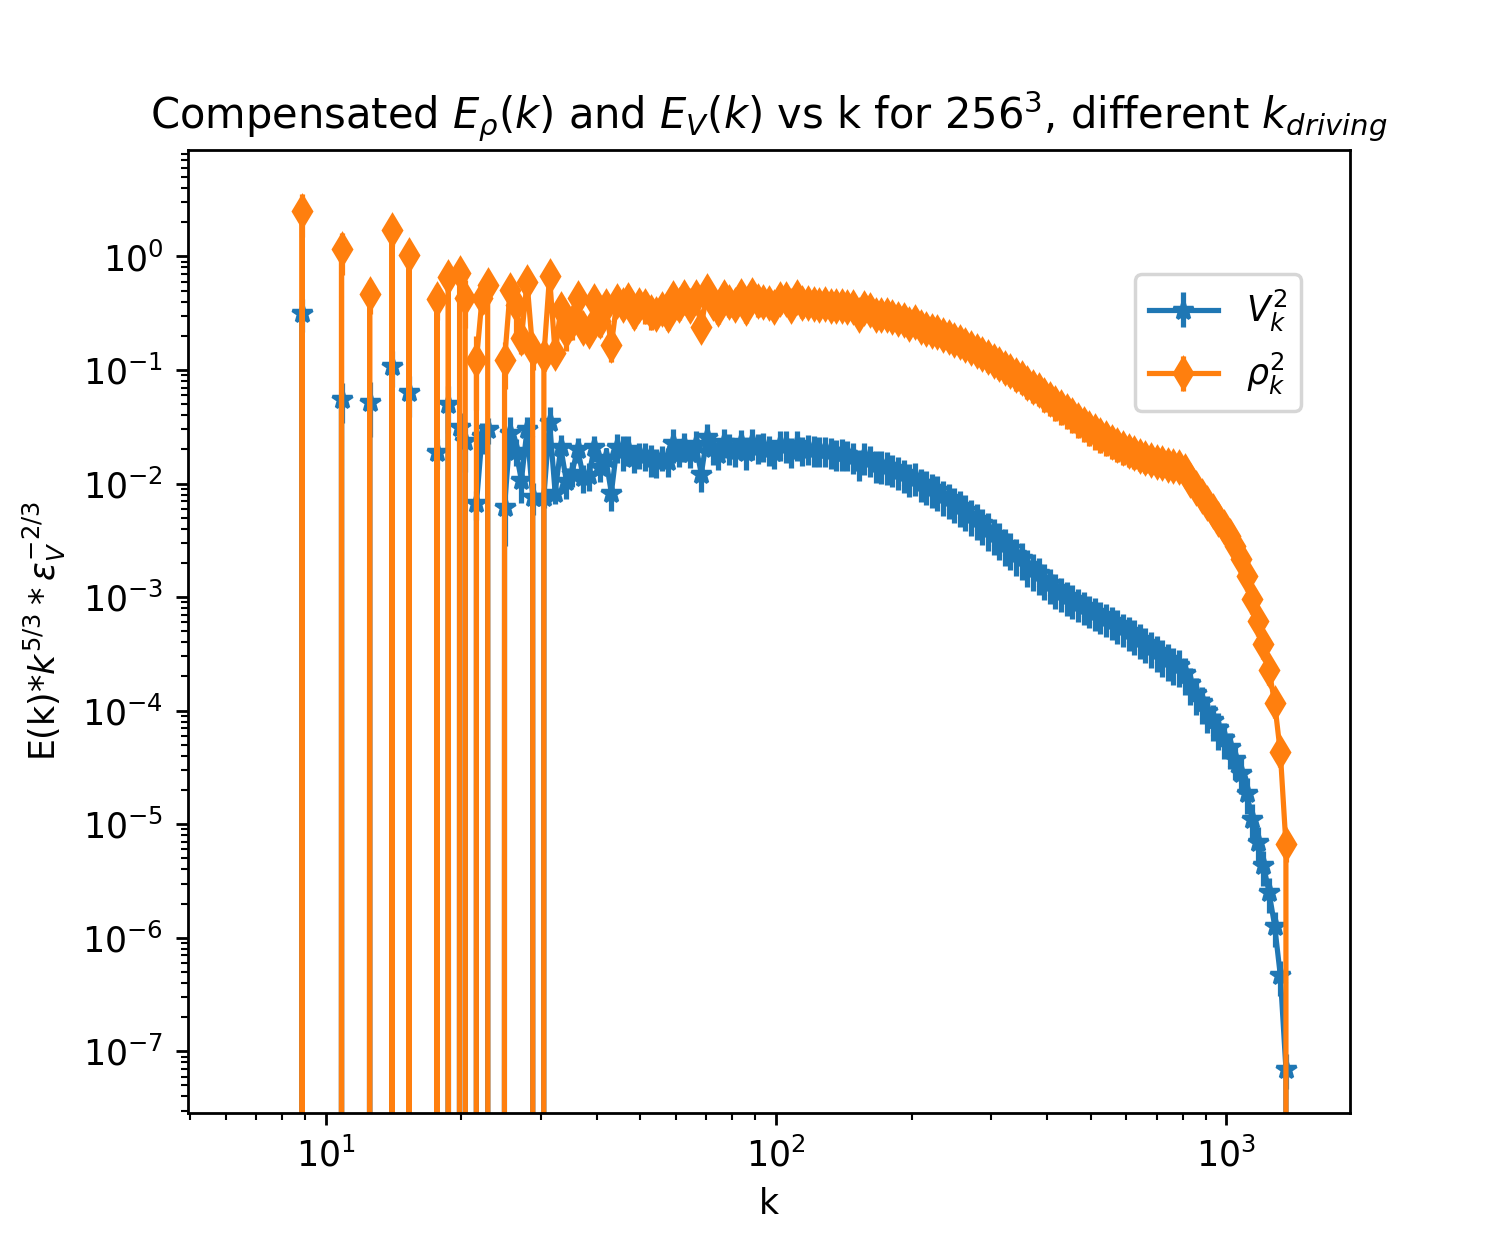
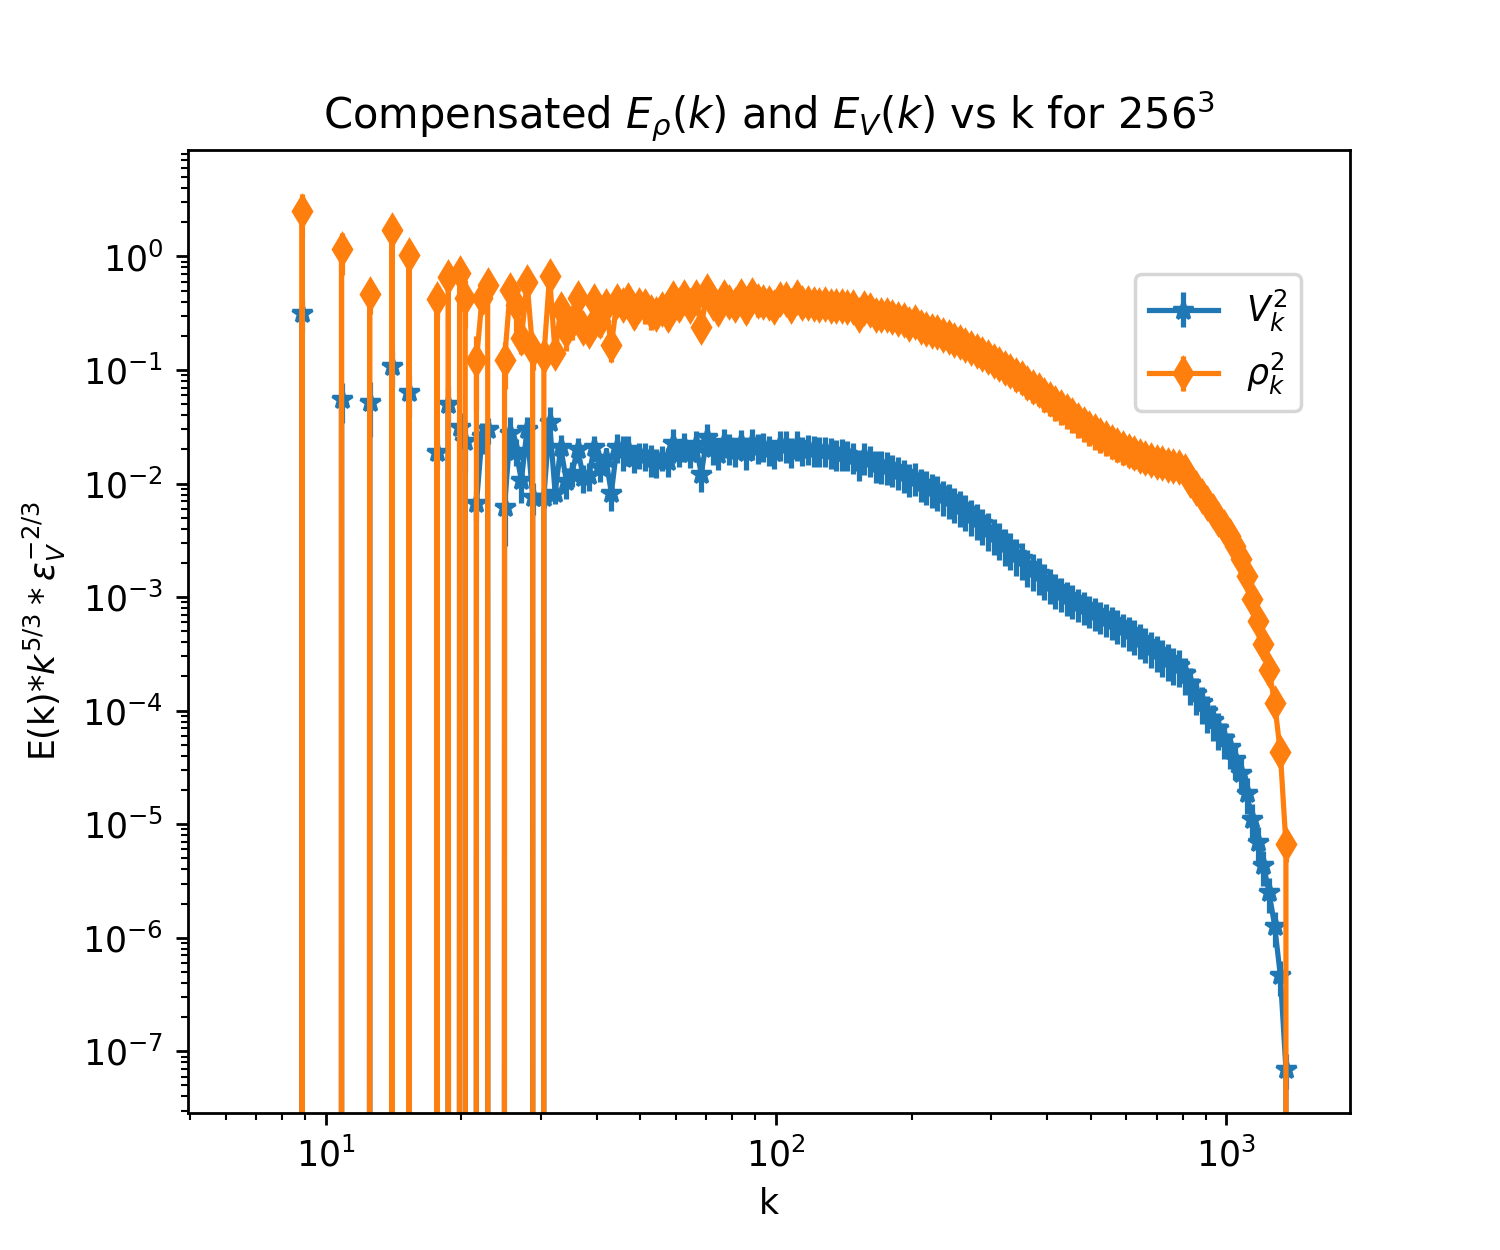
Modified a plot

Changed region(s): [[0.092, 0.0624, 0.8587, 0.1248], [0.8587, 0.0936, 0.92, 0.1248]]

diff --git a/All_analysis/diff_spectra.py b/All_analysis/diff_spectra.py
@@ -90,7 +90,7 @@ plt.ylabel('E(k)*$k^{5/3}*\epsilon_V^{-2/3}$')
 box = ax.get_position()
 # Put a legend to the right of the current axis
 ax.legend(loc='center left', bbox_to_anchor=(0.8, 0.8))
-plt.title(r'Compensated $E_{\rho}(k)$ and $E_V(k)$ vs k for $256^3$, different $k_{driving}$' )
+plt.title(r'Compensated $E_{\rho}(k)$ and $E_V(k)$ vs k for $256^3$' )
 plt.savefig('E_k_compensated_rho-vel_lowk_256.png',dpi=250)
 
 
